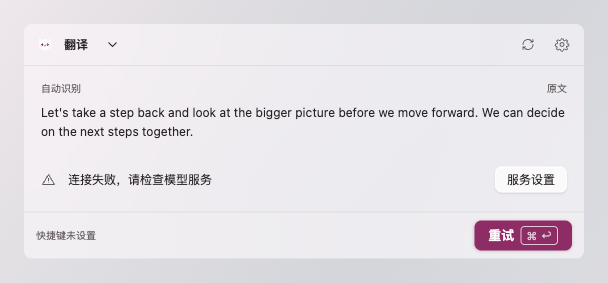
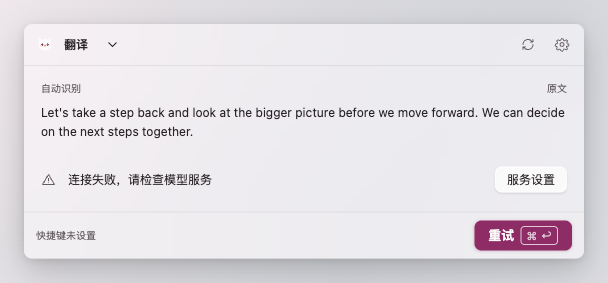
fix(panel): cast a shadow that follows the glass
On a light background the panel had no edge at all: removing the window
shadow got rid of the square one it used to cast, and nothing replaced it,
so the glass became indistinguishable from the window behind it.

The shadow is back, and this time it is shaped like the glass. A borderless
window takes its shape from its content layer, so the square layer was what
cast a square shadow around rounded glass. The glass now sits in a container
masked to the same corner radius, which is the shape the window server
follows, and the shadow is invalidated whenever the panel resizes so it keeps
following the compact bar and the expanded panel alike.

Measured on the running app: brightness falls from 0.902 to 0.812 over the
16 pt outside the left edge and jumps to 1.000 at the edge; just below the
bottom edge it is 0.773, stronger than above, and the corner darkening steps
diagonally instead of forming a rectangle.

The mockups carry the same shadow, and the docs no longer claim the panel
has no projection.

Changed region(s): [[0.0312, 0.9046, 0.9688, 0.9611], [0.9375, 0.1979, 0.9688, 0.8763], [0.0312, 0.1979, 0.0625, 0.8763]]

diff --git a/Owlet/App/PanelController.swift b/Owlet/App/PanelController.swift
@@ -341,6 +341,9 @@ class FloatingPanel: NSPanel, NSWindowDelegate {
     private let host: NSHostingController<PanelView>
     private var sizeObservation: NSKeyValueObservation?
     private var closing = false
+    /// The rounded shape the window presents to the window server, so the shadow follows the glass
+    /// instead of the rectangle around it.
+    private let shape = NSView()
     /// Live while the panel is up; removed on close so the panel holds nothing after it goes.
     private var keys: Any?
 
@@ -352,16 +355,24 @@ class FloatingPanel: NSPanel, NSWindowDelegate {
         level = .floating
         isOpaque = false
         backgroundColor = .clear
-        // A borderless window publishes its square frame as its shape, so the window server shadows
-        // a rectangle around the rounded glass; the glass draws its own edge, which is the whole look.
-        hasShadow = false
+        // The glass needs a shadow to read against a light background, and a borderless window takes
+        // its shape — and so its shadow — from its content layer.
+        hasShadow = true
         isMovableByWindowBackground = true
         isReleasedWhenClosed = false
         delegate = self
-        // The glass keeps its own default corner radius and style: the panel has no shape of its own.
+        // The glass keeps its own default corner radius and style. It is wrapped in a container
+        // masked to that same shape, because a square layer is what used to cast a square shadow
+        // around rounded glass: the rounded mask is what the window server now follows.
         let glass = NSGlassEffectView()
         glass.contentView = host.view
-        contentView = glass
+        glass.frame = shape.bounds
+        glass.autoresizingMask = [.width, .height]
+        shape.addSubview(glass)
+        shape.wantsLayer = true
+        shape.layer?.cornerRadius = glass.cornerRadius
+        shape.layer?.masksToBounds = true
+        contentView = shape
         sizeObservation = host.observe(\.preferredContentSize) { [weak self] host, _ in
             MainActor.assumeIsolated { self?.fit(host.preferredContentSize) }
         }
@@ -450,9 +461,12 @@ class FloatingPanel: NSPanel, NSWindowDelegate {
             setFrame(
                 NSRect(x: top.x - size.width / 2, y: top.y - size.height, width: size.width, height: size.height),
                 display: true)
+            invalidateShadow()
             return
         }
         setFrame(PanelPlacement.frame(size: size, anchor: anchor, within: visible), display: true)
+        // The shape changed with the size, so the shadow has to be recomputed from it.
+        invalidateShadow()
     }
 }
 

diff --git a/OwletTests/App/PanelControllerTests.swift b/OwletTests/App/PanelControllerTests.swift
@@ -313,17 +313,22 @@ struct PanelControllerTests {
         #expect(panel.model.state == .idle)
     }
 
-    /// The panel is the glass and nothing else: no hand-set corner radius, and no window shadow
-    /// whose square frame-shape would draw a rectangular edge around the rounded glass.
-    @Test func usesTheSystemGlassShapeOnly() async throws {
+    /// The panel keeps the system glass defaults and casts a shadow that follows the glass: the
+    /// window's shape comes from a container masked to the glass's own corner radius, which is what
+    /// stops the window server from shadowing a rectangle around rounded glass.
+    @Test func shapesItsShadowLikeTheGlass() async throws {
         let (panel, _) = makePanel(realWindow: true)
         panel.read = { $0(.failure(.unreadable)) }
         panel.trigger()
         let window = try #require(panel.panel)
-        let glass = try #require(window.contentView as? NSGlassEffectView)
+        let shape = try #require(window.contentView)
+        let glass = try #require(shape.subviews.first as? NSGlassEffectView)
         #expect(glass.cornerRadius == NSGlassEffectView().cornerRadius)
         #expect(glass.style == NSGlassEffectView().style)
-        #expect(!window.hasShadow)
+        #expect(window.hasShadow)
+        #expect(shape.layer?.cornerRadius == glass.cornerRadius)
+        #expect(shape.layer?.masksToBounds == true)
+        #expect(glass.frame == shape.bounds)
         panel.close()
     }
 
@@ -353,7 +358,7 @@ struct PanelControllerTests {
         panel.read = { $0(.failure(.unreadable)) }
         panel.trigger()
         let window = try #require(panel.panel)
-        #expect(window.contentView is NSGlassEffectView)
+        #expect(window.contentView?.subviews.first is NSGlassEffectView)
         #expect(SettingsStore.panelFixedAnchor(in: defaults) == nil)
         window.setFrameOrigin(NSPoint(x: window.frame.minX + 40, y: window.frame.minY - 30))
         await settle()

diff --git a/design/index.html b/design/index.html
@@ -134,7 +134,7 @@ select.popup{appearance:none;-webkit-appearance:none;height:28px;padding:0 26px 
 .section-footer svg{width:14px;height:14px}
 
 /* Floating panel */
-.window.floating{display:flex;flex-direction:column;width:560px;min-height:0;height:auto;max-height:calc(100vh - 200px);margin:clamp(20px,5vh,55px) auto 0;border:0;border-radius:8px;box-shadow:none;background:oklch(99% .006 350/.55);backdrop-filter:blur(30px) saturate(1.5)}
+.window.floating{display:flex;flex-direction:column;width:560px;min-height:0;height:auto;max-height:calc(100vh - 200px);margin:clamp(20px,5vh,55px) auto 0;border:0;border-radius:8px;box-shadow:0 12px 32px oklch(0% 0 0/.20),0 2px 8px oklch(0% 0 0/.10);background:oklch(99% .006 350/.55);backdrop-filter:blur(30px) saturate(1.5)}
 .window.floating>.appbar,.window.floating>.sidebar{display:none}
 .window.floating>.page{grid-column:auto;grid-row:auto;background:transparent}
 .window.floating.compact{width:430px}

diff --git a/docs/liquid-glass-components.md b/docs/liquid-glass-components.md
@@ -23,7 +23,7 @@
 | --- | --- | --- | --- | --- |
 | 1 | 侧边栏是真正的 source list | 178px 固定栏，自己画红绿灯、自己画分组标题、选中态是自定义白胶囊；`设置` 与 `本地` 钉在栏底 | `NavigationSplitView` + `List(selection:)`：工具栏自带的收起／展开按钮来自系统（设计图里的切换按钮就是它）；`Show/Hide Sidebar (⌃⌘S)` 需要显式 `SidebarCommands()`，当前未添加，见 tasks/todo.md T25；选中态是系统外观；`设置` 移入同一分组，取消栏底钉死；`本地` 角标删除；`.badge` 计数未采用 | `sidebars.md › Best practices`；`sidebars.md › Desktop (macOS)`：**Avoid putting critical information or actions at the bottom of a sidebar.** |
 | 2 | 右上角翻译／润色 + 目标语言改为工具栏控件 | 两个手写下拉框塞在 64px 自绘标题栏里 | `NavigationSplitView` 的 toolbar：`简体中文` 弹出式按钮在左、`翻译｜润色` 分段控件在右；`复制` 与提交动作仍在底部 safe-area 操作栏，未上移（§2.2 #6） | `segmented-controls.md › Best practices`；`pop-up-buttons.md › Best practices` |
-| 3 | 面板浮玻璃重做、错误入口改按钮、焦点环交给系统 | 两层渐变 + 四道内阴影 + 双层描边；错误恢复是玫瑰色下划线链接；`2px` 玫瑰色 outline 偏移 4px | 系统 `NSGlassEffectView` 的默认外观（默认圆角、regular 变体），不叠自绘边框与投影；`NSPanel.hasShadow = false`，避免窗口按方形 frame 投出矩形阴影；恢复入口改为 `.glass` 按钮（`StatusNote`、`NoticeStrip` 与面板动作行）；3px 强调色光晕 + 强调色描边 | `liquid-glass.md › Review checklist` #2：**Restraint.** "Glass stacked on glass blurs the hierarchy the material was meant to create."；`buttons.md › Content`：按钮要能被一眼认出是按钮；`focus-and-selection.md`：**Rely on system-provided focus effects.** |
+| 3 | 面板浮玻璃重做、错误入口改按钮、焦点环交给系统 | 两层渐变 + 四道内阴影 + 双层描边；错误恢复是玫瑰色下划线链接；`2px` 玫瑰色 outline 偏移 4px | 系统 `NSGlassEffectView` 的默认外观（默认圆角、regular 变体），不叠自绘边框与投影；玻璃外面套一层按同一圆角遮罩的容器，`NSPanel.hasShadow = true` 的阴影因此跟着圆角走，而不是照着方形 frame 投出矩形；恢复入口改为 `.glass` 按钮（`StatusNote`、`NoticeStrip` 与面板动作行）；3px 强调色光晕 + 强调色描边 | `liquid-glass.md › Review checklist` #2：**Restraint.** "Glass stacked on glass blurs the hierarchy the material was meant to create."；`buttons.md › Content`：按钮要能被一眼认出是按钮；`focus-and-selection.md`：**Rely on system-provided focus effects.** |
 | 4 | 设置页改为 inset grouped 表单 | 每行一条贯穿分隔线 | 分组圆角容器 + 行内分隔线，容器随分组结束 | `boxes.md › Best practices`：**Consider using padding and alignment to communicate additional grouping within a box.** |
 | 5 | 状态总览改按窗口／面板分组 | 按流程分 16 条泳道，用箭头连线 | 按 surface 分 6 个横向分区（文本处理 8 / 快捷键 3 / 设置 5 / 紧凑条 10 / 展开 7 / 菜单栏 2），分区竖向堆叠，同一面板内状态横向换行 | 原型工具；分组后一次能看到同一 surface 的全部状态，与本文的对照表一致 |
 
@@ -60,7 +60,7 @@
 - 侧栏导航（文本处理／快捷键／设置）→ `List(selection:)` 绑定 `enum Page`，导航不等于动作，收敛后只有三个页面；快捷键页的"全局／面板内"分组用 `Form` + `Section`；列表搜索与筛选无对应状态，随生词本／历史一并移除（见 [docs/unimplemented-features.md](unimplemented-features.md)）。
 
 ### 3.4 组件 › 呈现
-- 浮动工具条窗口 → `NSPanel`（`.borderless`, `.nonactivatingPanel`, `.floating`）+ `NSGlassEffectView`，玻璃由 window server 绘制，保留其默认圆角与样式，不叠自绘边框与内阴影；`hasShadow = false`，窗口不按方形 frame 投出矩形阴影；紧凑处理条（`loading` / `polish-loading` / `direct-loading`）用同款玻璃容器 + `Text` + `ProgressView` + 玻璃停止按钮，整圈呼吸是未采纳建议（§2.2 #9、T24）。
+- 浮动工具条窗口 → `NSPanel`（`.borderless`, `.nonactivatingPanel`, `.floating`）+ `NSGlassEffectView`，玻璃由 window server 绘制，保留其默认圆角与样式，不叠自绘边框与内阴影；窗口的 `contentView` 是按玻璃圆角遮罩的容器，`hasShadow = true` 的投影因此跟随玻璃形状——浅色背景上也需要它来分辨浮层边界；紧凑处理条（`loading` / `polish-loading` / `direct-loading`）用同款玻璃容器 + `Text` + `ProgressView` + 玻璃停止按钮，整圈呼吸是未采纳建议（§2.2 #9、T24）。
 - 紧凑提示条（失败／权限／未配置／取消／未能写回）→ 同上容器 + `Label` + 一个恢复按钮，失败态另给重试图标按钮（见 §7 例外 1）；展开态内联状态行（`result-notice`）用 `Label(systemImage:)` + 恢复按钮放进内容流，不收起面板；权限未授权引导用 `AXIsProcessTrustedWithOptions` 打开系统设置，不用自绘弹窗。
 
 ### 3.5 组件 › 选择与输入
